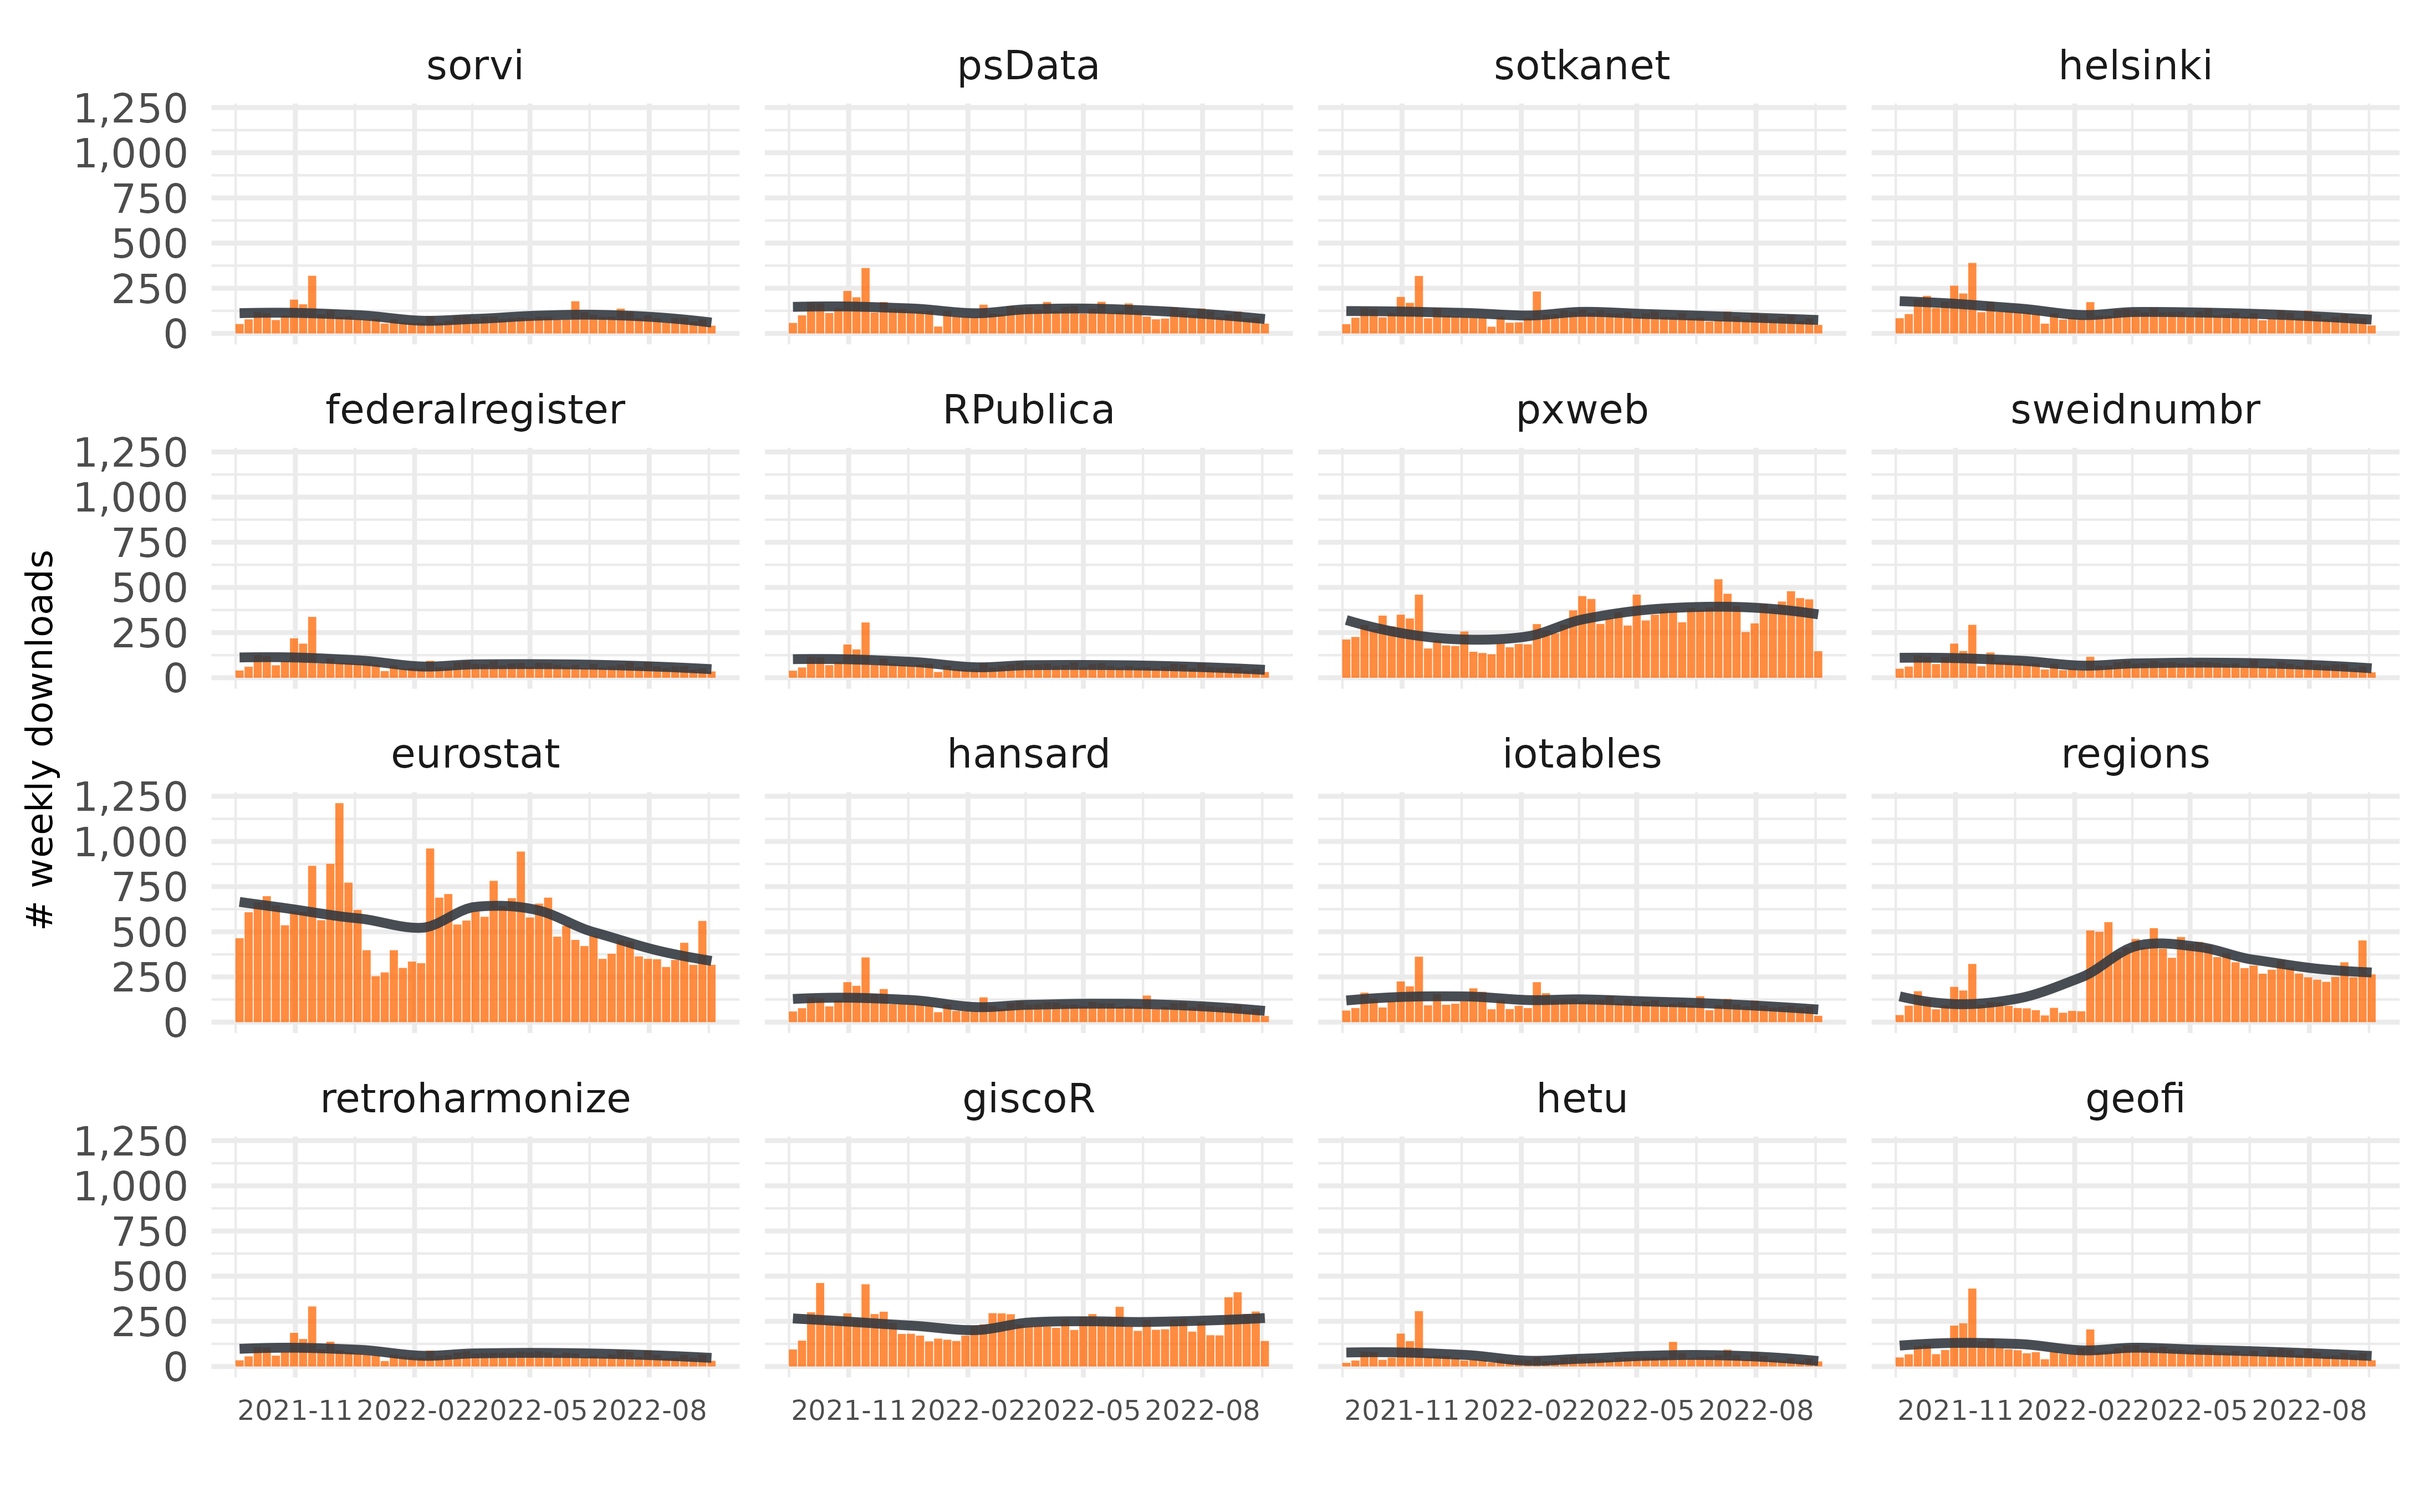
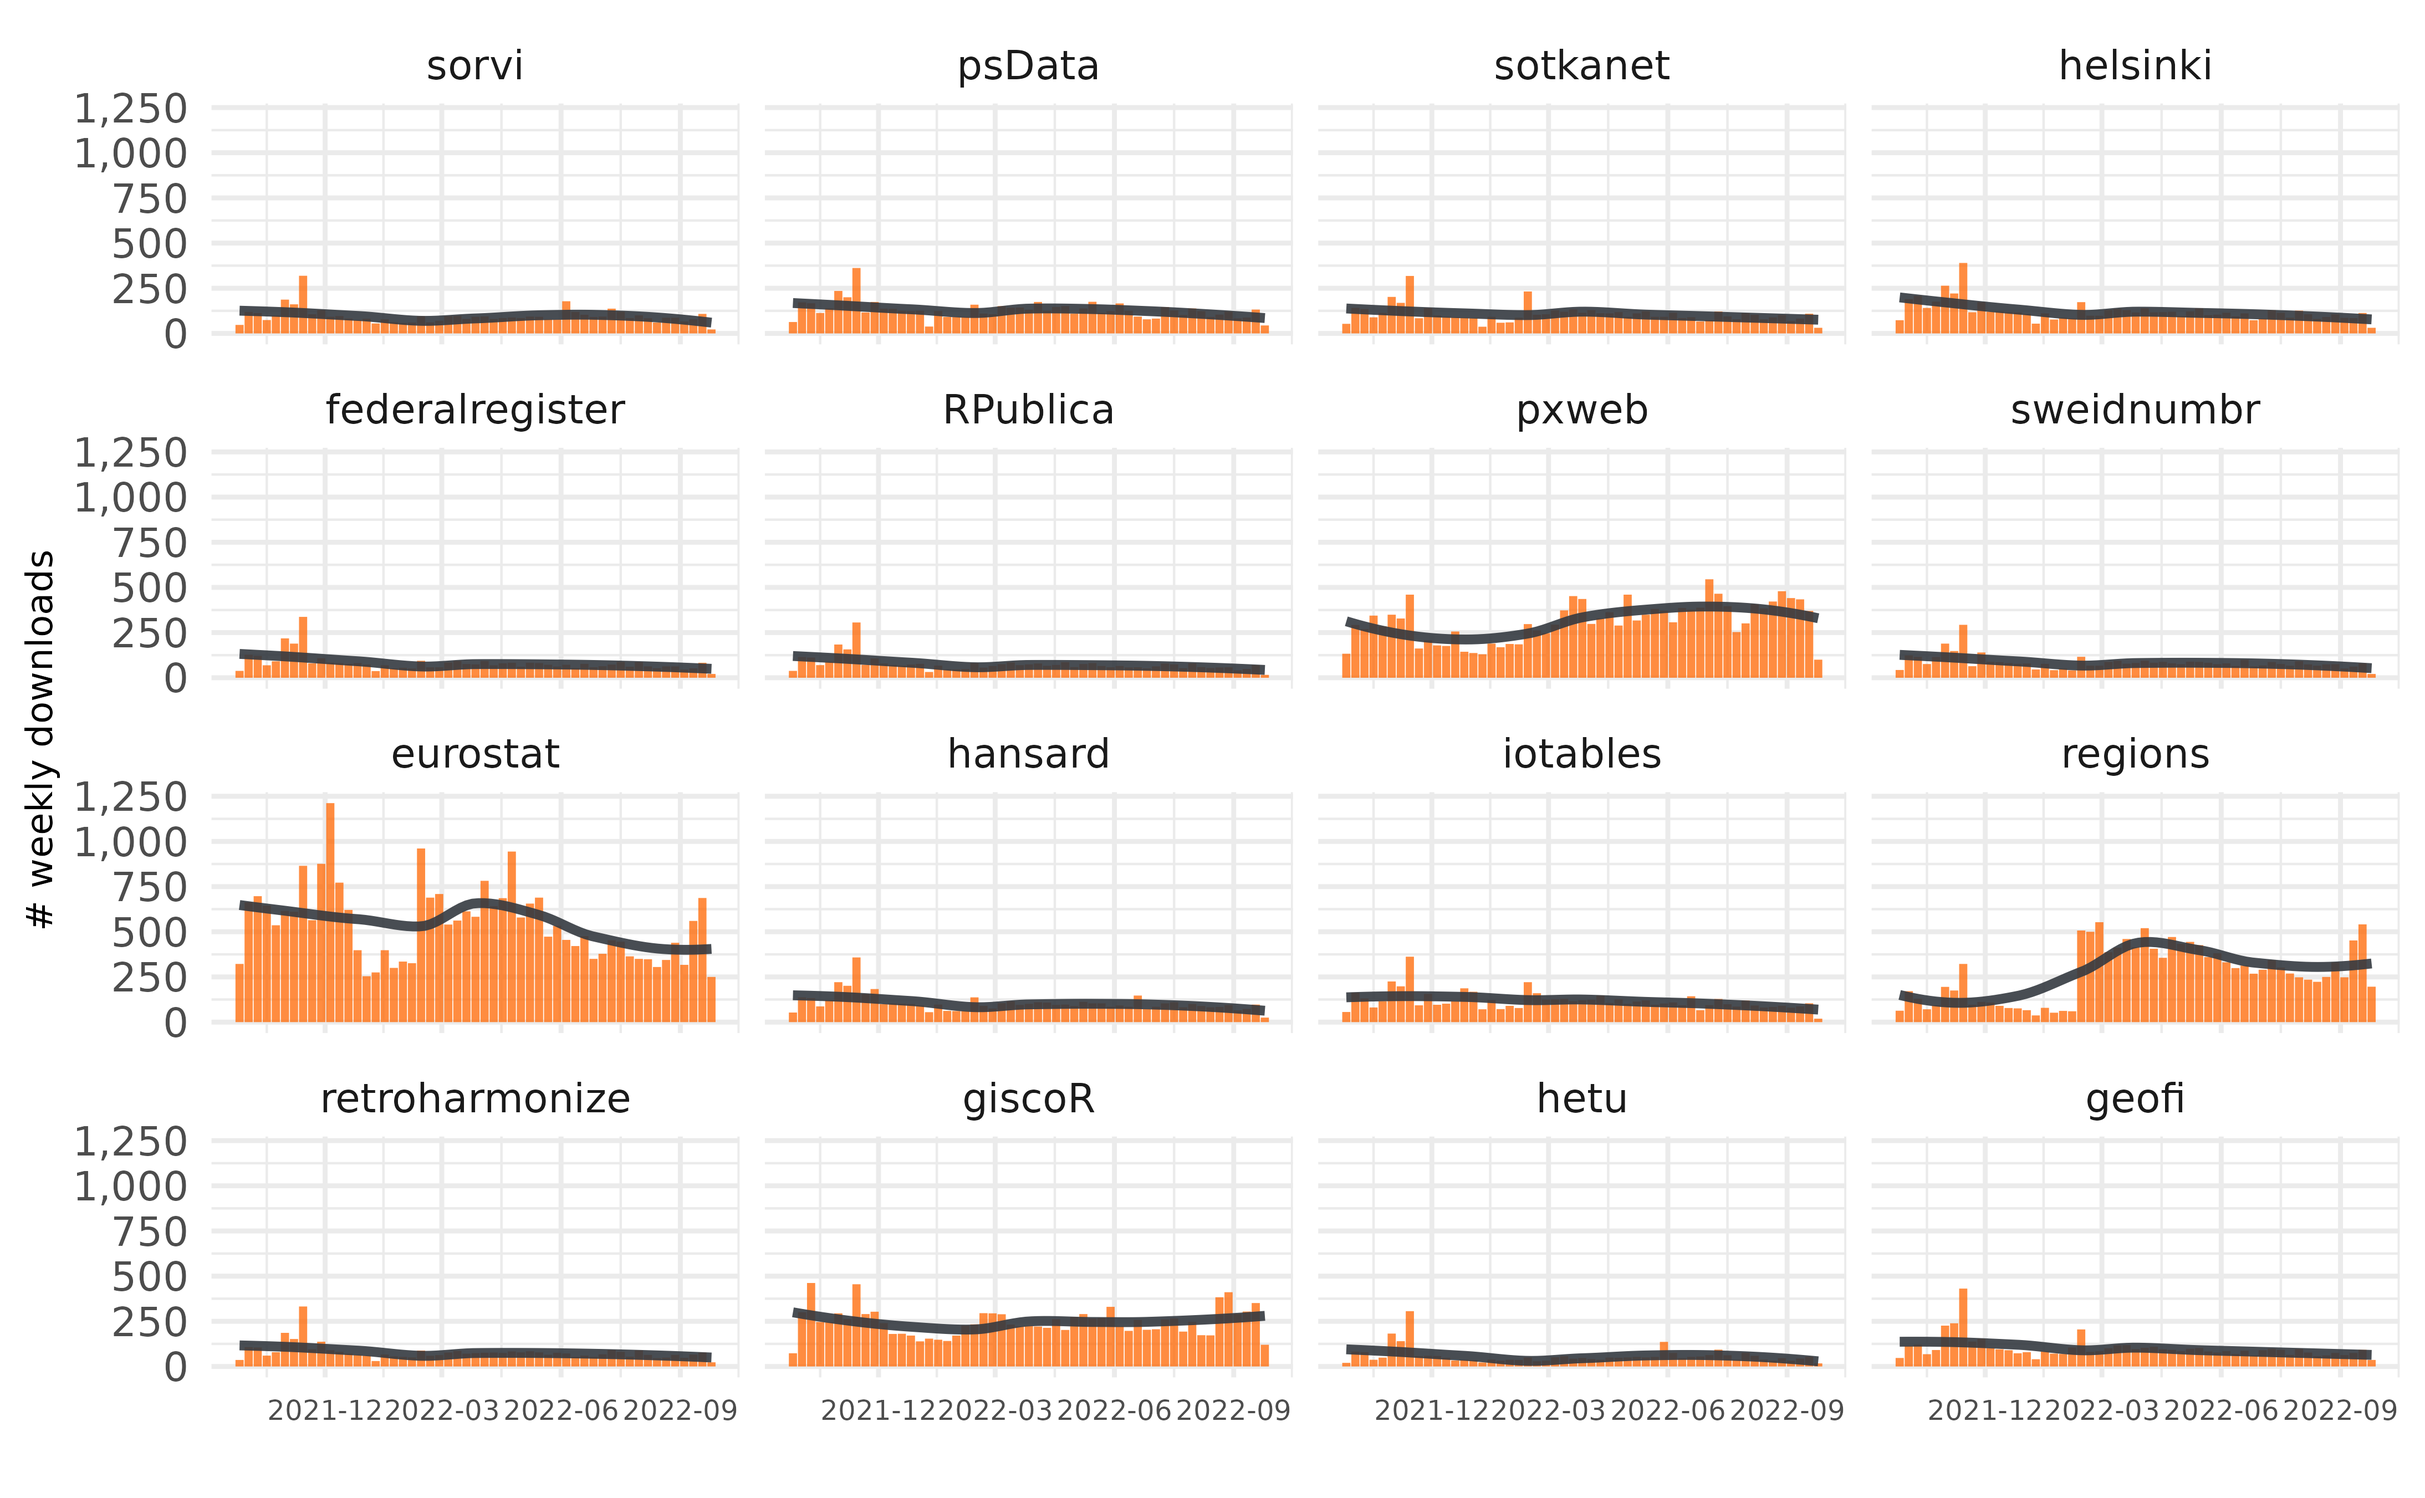
Built site for rogtemplate: 0.0.2.9000@bdcdba0

diff --git a/articles/downloads.html b/articles/downloads.html
@@ -93,7 +93,7 @@
 
     
     
-<p><em>Updated: 15 Sep 2022</em></p>
+<p><em>Updated: 22 Sep 2022</em></p>
 <p>Downloads of rOpenGov packages from CRAN.</p>
 <div class="section level2">
 <h2 id="downloads">Downloads<a class="anchor" aria-label="anchor" href="#downloads"></a>
@@ -109,7 +109,7 @@
 <h2 id="data">Data<a class="anchor" aria-label="anchor" href="#data"></a>
 </h2>
 <div id="station-table" class="reactable html-widget" style="width:auto;height:auto;"></div>
-<script type="application/json" data-for="station-table">{"x":{"tag":{"name":"Reactable","attribs":{"data":{"package":["geofi","hetu","giscoR","retroharmonize","regions","iotables","hansard","eurostat","sweidnumbr","pxweb","RPublica","federalregister","helsinki","sotkanet","psData","sorvi"],"on CRAN":["2021-02-20","2020-10-15","2020-10-05","2020-09-21","2020-06-04","2018-01-30","2016-10-31","2015-03-20","2014-09-05","2014-09-03","2014-05-09","2014-05-08","2014-04-13","2014-04-06","2014-02-23","2013-09-30"],"avg daily downloads":[15.5,8.5,30.9,11.8,23.9,16.5,18.1,59.8,11.7,21.1,10.3,11.5,13.2,11.5,12.8,12.1],"last day":[8,7,41,7,129,7,9,154,6,48,8,8,8,9,6,9],"last week":[82,52,284,61,481,94,83,615,71,349,55,62,93,98,100,85],"last month":[306,179,1478,256,1531,372,345,1959,287,1906,233,254,407,385,445,358],"last year":[5334,3085,12885,4162,13898,6289,5584,28997,4523,16534,3992,4331,6529,5637,6836,5069]},"columns":[{"accessor":"package","name":"package","type":"character"},{"accessor":"on CRAN","name":"on CRAN","type":"Date"},{"accessor":"avg daily downloads","name":"avg daily downloads","type":"numeric"},{"accessor":"last day","name":"last day","type":"numeric"},{"accessor":"last week","name":"last week","type":"numeric"},{"accessor":"last month","name":"last month","type":"numeric"},{"accessor":"last year","name":"last year","type":"numeric"}],"filterable":true,"searchable":true,"defaultPageSize":16,"showPageSizeOptions":true,"pageSizeOptions":[10,25,50,100],"paginationType":"jump","showPageInfo":true,"minRows":1,"striped":true,"elementId":"station-table","dataKey":"07c17fbbae471972329bb5645c1de0f3"},"children":[]},"class":"reactR_markup"},"evals":[],"jsHooks":[]}</script>
+<script type="application/json" data-for="station-table">{"x":{"tag":{"name":"Reactable","attribs":{"data":{"package":["geofi","hetu","giscoR","retroharmonize","regions","iotables","hansard","eurostat","sweidnumbr","pxweb","RPublica","federalregister","helsinki","sotkanet","psData","sorvi"],"on CRAN":["2021-02-20","2020-10-15","2020-10-05","2020-09-21","2020-06-04","2018-01-30","2016-10-31","2015-03-20","2014-09-05","2014-09-03","2014-05-09","2014-05-08","2014-04-13","2014-04-06","2014-02-23","2013-09-30"],"avg daily downloads":[15.5,8.4,31.1,11.8,24.3,16.5,18.1,59.9,11.7,21.2,10.3,11.5,13.2,11.5,12.8,12.1],"last day":[24,10,75,16,49,16,14,78,13,52,12,16,27,23,34,16],"last week":[58,28,234,46,358,40,50,442,36,236,35,48,57,55,85,57],"last month":[328,184,1404,266,1734,365,341,2213,279,1795,223,252,400,373,436,346],"last year":[5358,3095,13051,4177,14304,6291,5589,28867,4525,16552,3988,4337,6511,5645,6863,5073]},"columns":[{"accessor":"package","name":"package","type":"character"},{"accessor":"on CRAN","name":"on CRAN","type":"Date"},{"accessor":"avg daily downloads","name":"avg daily downloads","type":"numeric"},{"accessor":"last day","name":"last day","type":"numeric"},{"accessor":"last week","name":"last week","type":"numeric"},{"accessor":"last month","name":"last month","type":"numeric"},{"accessor":"last year","name":"last year","type":"numeric"}],"filterable":true,"searchable":true,"defaultPageSize":16,"showPageSizeOptions":true,"pageSizeOptions":[10,25,50,100],"paginationType":"jump","showPageInfo":true,"minRows":1,"striped":true,"elementId":"station-table","dataKey":"11b8ab9d9ecff4ad14002a1eb846307b"},"children":[]},"class":"reactR_markup"},"evals":[],"jsHooks":[]}</script>
 </div>
   </main><aside class="col-md-3"><nav id="toc"><h2>On this page</h2>
     </nav></aside>

diff --git a/reference/rog_logo.html b/reference/rog_logo.html
@@ -121,7 +121,7 @@ would run <code><a href="https://usethis.r-lib.org/reference/use_logo.html" clas
 <span class="r-in"><span><span class="va">tmp</span> <span class="op">&lt;-</span> <span class="fu"><a href="https://rdrr.io/r/base/tempfile.html" class="external-link">tempfile</a></span><span class="op">(</span>fileext <span class="op">=</span> <span class="st">".png"</span><span class="op">)</span></span></span>
 <span class="r-in"><span><span class="fu">rog_logo</span><span class="op">(</span><span class="st">"test a package"</span>, <span class="va">tmp</span>, overwrite <span class="op">=</span> <span class="cn">FALSE</span>, favicons <span class="op">=</span> <span class="cn">FALSE</span><span class="op">)</span></span></span>
 <span class="r-msg co"><span class="r-pr">#&gt;</span> B612 Mono font loaded</span>
-<span class="r-msg co"><span class="r-pr">#&gt;</span> Logo created on /tmp/RtmpAs0GAV/file34f04a8bfe12.png</span>
+<span class="r-msg co"><span class="r-pr">#&gt;</span> Logo created on /tmp/RtmpHOK2GT/file340f74375e4e.png</span>
 <span class="r-in"><span></span></span>
 <span class="r-in"><span><span class="co"># Display</span></span></span>
 <span class="r-in"><span><span class="va">logo</span> <span class="op">&lt;-</span> <span class="fu">magick</span><span class="fu">::</span><span class="fu"><a href="https://docs.ropensci.org/magick/reference/editing.html" class="external-link">image_read</a></span><span class="op">(</span><span class="va">tmp</span><span class="op">)</span></span></span>
